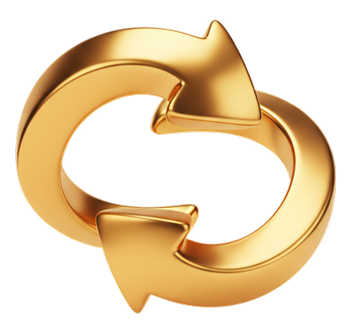
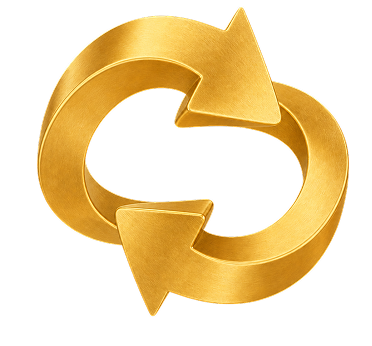
Update referral 3D image

diff --git a/components/Referral/ReferralProgramContent.tsx b/components/Referral/ReferralProgramContent.tsx
@@ -163,7 +163,7 @@ export default function ReferralProgramContent({ onClose }: ReferralProgramConte
     <View className="gap-6">
       {/* Hero */}
       <View className="items-center">
-        <Image source={getAsset('images/referral-3d.png')} style={{ width: 120, height: 120 }} />
+        <Image source={getAsset('images/referral-3d.png')} style={{ width: 180, height: 180 }} />
         <Text className="mt-3 text-center text-3xl font-bold leading-9 text-white">
           Invite friends &{'\n'}Earn together
         </Text>

diff --git a/lib/assets.ts b/lib/assets.ts
@@ -444,7 +444,7 @@ export const ASSETS = {
   },
   'images/referral-3d.png': {
     module: require('@/assets/images/referral-3d.png'),
-    hash: '8477b533',
+    hash: '5d0bdece',
   },
   'images/referral_large.png': {
     module: require('@/assets/images/referral_large.png'),